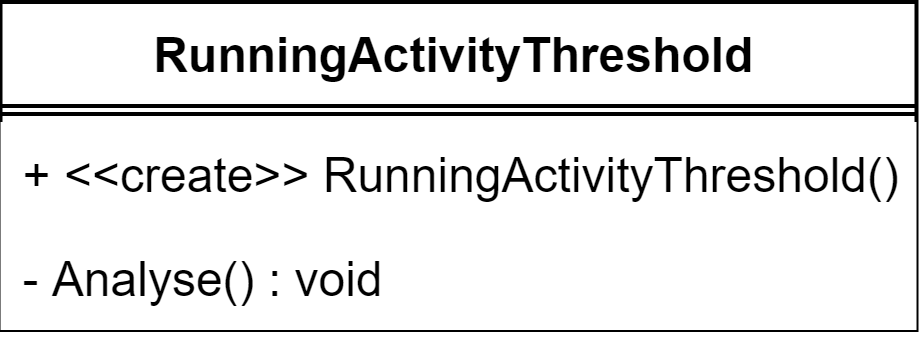
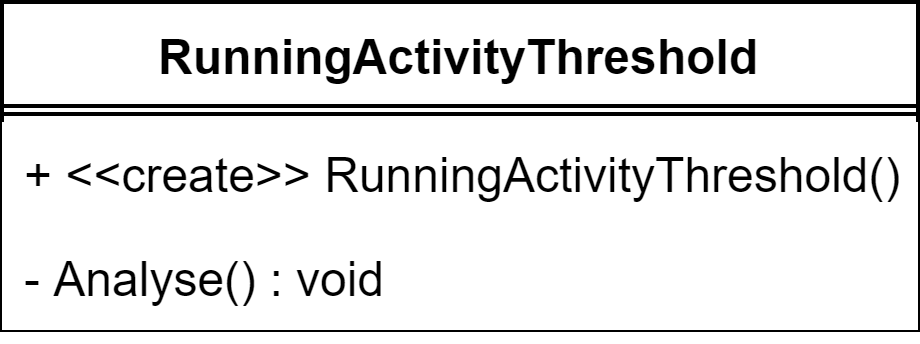
Bildänderungen
- RunningActivityThreshold richtig angezeigt
- StepActivityThreshold richtig angezeigt
- Viewmodel Uebersicht verbessert (nun halbwegs lesbar)
- Anpassungen dazu im Dokument

Changed region(s): [[0.0304, 0.0, 1.0, 0.9593], [0.1522, 0.0872, 0.8217, 0.2616], [0.0609, 0.7558, 0.4261, 0.9012]]

diff --git a/Entwurf/Entwurfsdokument/entwurfprotokoll.tex b/Entwurf/Entwurfsdokument/entwurfprotokoll.tex
@@ -501,10 +501,10 @@ Enthält alle relevanten Informationen, die als Parameter mit dem Event IMUDataR
 		\item[\#] \textbf{abstract Analyse(): void}\\Der Algorithmus der Aktivitätserkennung wird in dieser Methode ausgeführt. Dabei ist dieser in den Unterklassen implementiert. Er beurteilt nur mithilfe der gesammelten Gyroskop- und Accelerometerdaten, ob das (der Activity entsprechende) Ereignis eingetroffen ist. In diesem Fall feuert er ein Event über den ActivityDone EventHandler. 
 	\end{itemize}
 	
-	\begin{minipage}[b]{0.6\textwidth}
+	\begin{minipage}[b]{0.65\textwidth}
 		\subsubsection{Abstract Class AbstractStepActivity}
 	\end{minipage}
-	\begin{minipage}[c]{0.4\textwidth}
+	\begin{minipage}[c]{0.35\textwidth}
 		\includegraphics[width=\textwidth]{bilder/EMKlassen/AbstractStepActivityClass.png}
 	\end{minipage}
 	\paragraph{Klassenbeschreibung:}
@@ -576,10 +576,10 @@ Enthält alle relevanten Informationen, die als Parameter mit dem Event IMUDataR
 		\newline	
 \end{itemize}
 
-	\begin{minipage}[b]{0.6\textwidth}
+	\begin{minipage}[b]{0.65\textwidth}
 		\subsubsection{Abstract Class AbstractSitUpActivity}
 		\end{minipage}
-		\begin{minipage}[c]{0.4\textwidth}
+		\begin{minipage}[c]{0.35\textwidth}
 			\includegraphics[width=\textwidth]{bilder/EMKlassen/AbstractSitUpActivityClass.png}
 		\end{minipage}
 		
@@ -694,9 +694,14 @@ Enthält alle relevanten Informationen, die als Parameter mit dem Event IMUDataR
 		
 		
 \subsection{Settings Service}
-
+\begin{minipage}[b]{0.6\textwidth}
 \subsubsection{Interface ISettingsService}
-\includegraphics[width=0.4\textwidth]{bilder/EMKlassen/ISettingsServiceInterface.png}
+\end{minipage}
+\begin{minipage}[c]{0.4\textwidth}
+\includegraphics[width=\textwidth]{bilder/EMKlassen/ISettingsServiceInterface.png}
+\end{minipage}
+
+
 
 	\paragraph{Schnittstellenbeschreibung:}
 	ISettingsService bietet eine Schnittstelle für die Einstellungen der App. Sie implementiert die Einstellungen und hält die aktuellen Instanzen dieser als Attribute.
